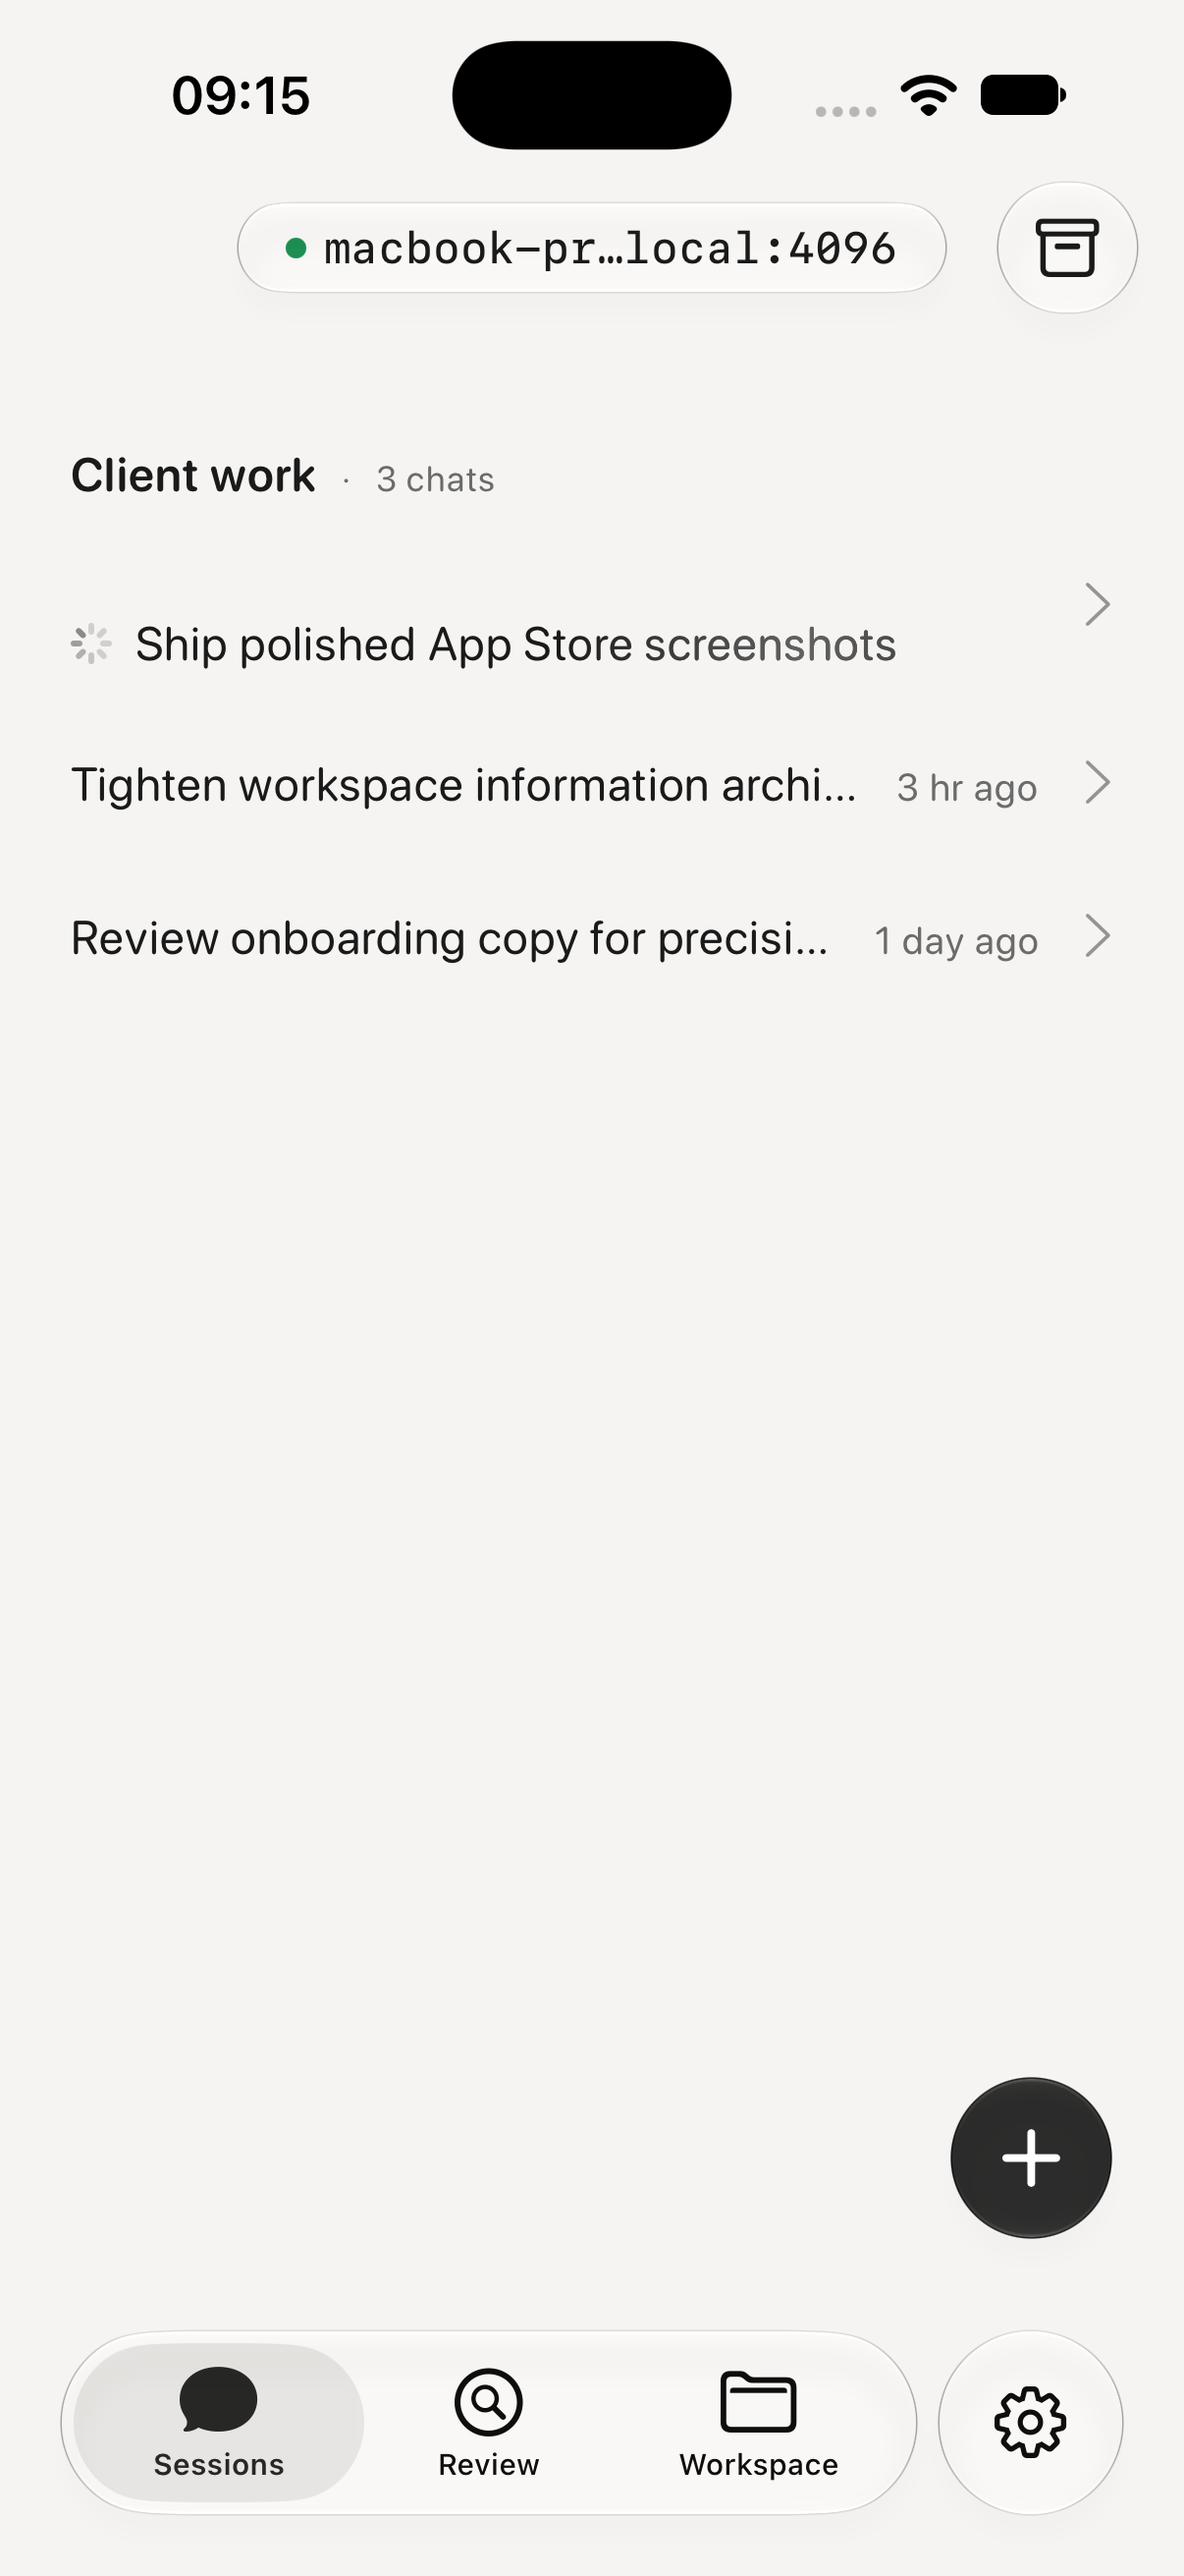
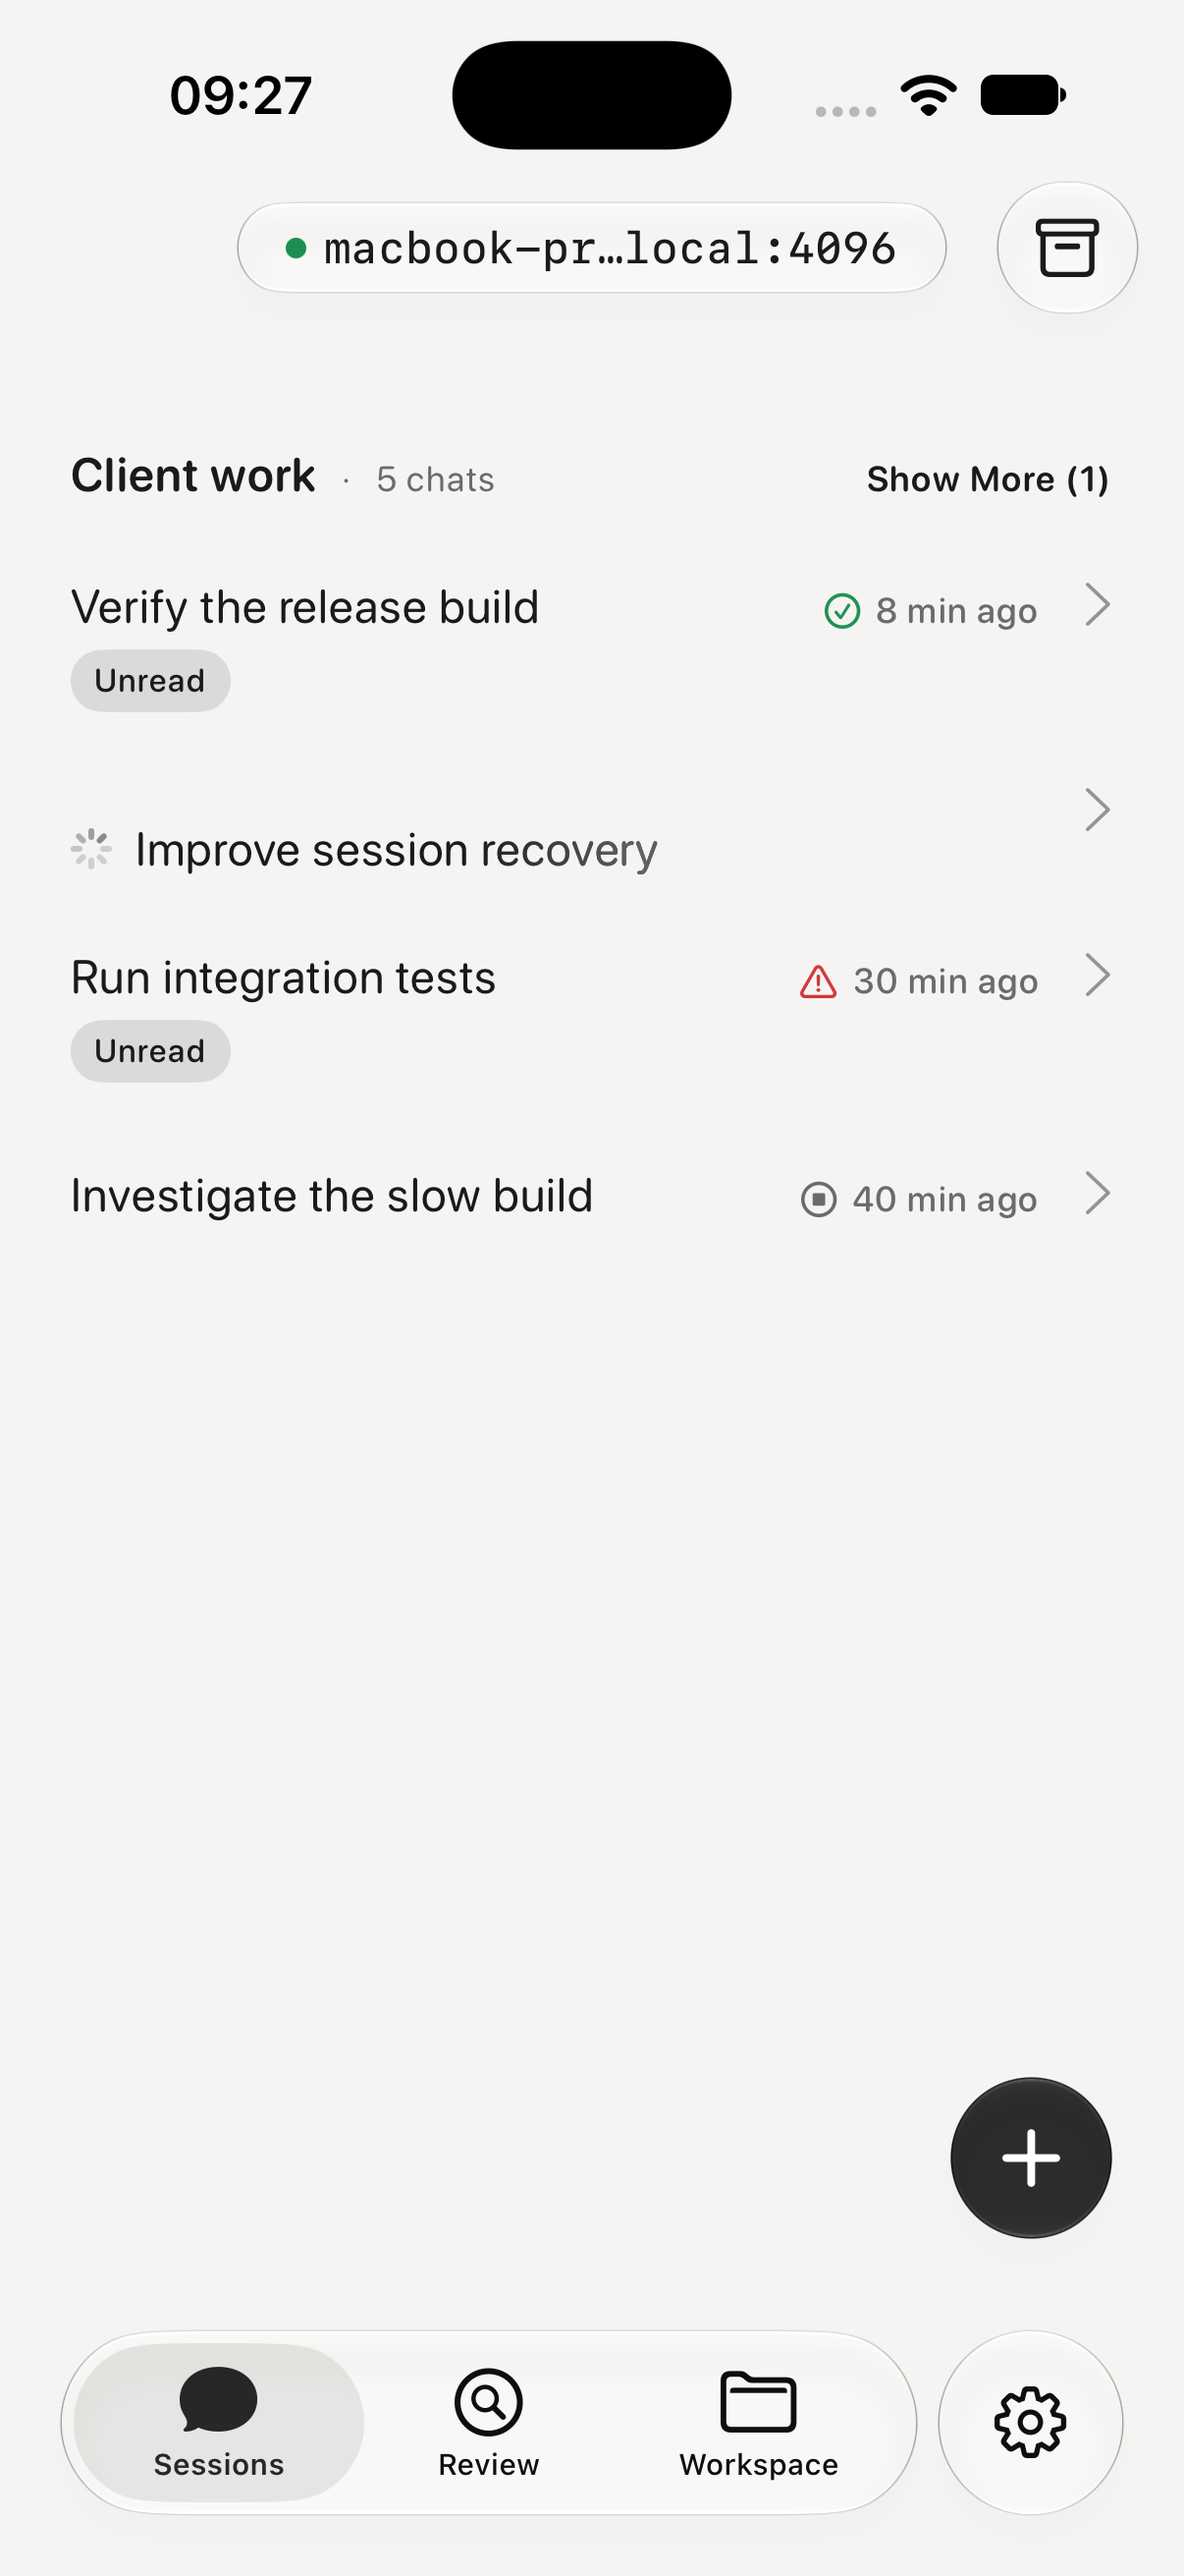
Bound inline status metadata and give unread badges their own line
Terminal statuses carry a relative time ("Succeeded · 8m ago"), which as
trailing inline metadata wrapped under pressure and wrecked the single-
line row. ExecutionStatusView gains a compact form — colored icon plus
abbreviated time (or the label for waiting states) — that never wraps
and keeps the full phrase for accessibility.

The unread badge moves to a second line instead of competing for trailing
width: unread rows stand taller than read rows, which is the extra
visibility they deserve.

Boards now validate the state-rich fixture (SCREENSHOT_EXECUTION_OUTCOMES
SCREENSHOT_UNREAD_RESULTS) — plain captures only ever rendered date rows
and hid exactly the states that broke; the validation procedure is
recorded in .interface-design/system.md.

diff --git a/OpenLens/Views/SessionsListView.swift b/OpenLens/Views/SessionsListView.swift
@@ -439,31 +439,39 @@ struct SessionsListView: View {
         let showsListExecutionOutcomes = connection.serverCapabilities?.protocolVersion == .v2
             || ScreenshotFixtures.showsExecutionOutcomes
 
+        let showsUnreadBadge = !isBusy && session.hasUnreadResult && showsListExecutionOutcomes
+
         return HStack(alignment: .firstTextBaseline, spacing: 12) {
-            SessionWorkingTitle(
-                title: session.title.isEmpty ? AppText.titleUntitled : session.title,
-                isWorking: isBusy
-            )
-            .frame(maxWidth: .infinity, alignment: .leading)
+            VStack(alignment: .leading, spacing: 5) {
+                HStack(alignment: .firstTextBaseline, spacing: 12) {
+                    SessionWorkingTitle(
+                        title: session.title.isEmpty ? AppText.titleUntitled : session.title,
+                        isWorking: isBusy
+                    )
+                    .frame(maxWidth: .infinity, alignment: .leading)
 
-            if !isBusy, showsListExecutionOutcomes,
-                      let outcome = session.executionOutcomeVisibleOnSessionList() {
-                ExecutionStatusView(state: outcome, idleTime: session.time.idle)
-            } else if !isBusy, !showsListExecutionOutcomes {
-                Text(formattedDate(session.updatedAt))
-                    .font(.system(size: 13, design: .rounded))
-                    .foregroundStyle(Color.appSecondary)
-            }
+                    if !isBusy, showsListExecutionOutcomes,
+                              let outcome = session.executionOutcomeVisibleOnSessionList() {
+                        ExecutionStatusView(state: outcome, idleTime: session.time.idle, isCompact: true)
+                    } else if !isBusy, !showsListExecutionOutcomes {
+                        Text(formattedDate(session.updatedAt))
+                            .font(.system(size: 13, design: .rounded))
+                            .foregroundStyle(Color.appSecondary)
+                    }
+                }
 
-            if !isBusy, session.hasUnreadResult, showsListExecutionOutcomes {
-                Text(AppText.unreadResult)
-                    .font(.system(size: 11, weight: .medium, design: .rounded))
-                    .foregroundStyle(Color.appAccent)
-                    .padding(.horizontal, 8)
-                    .padding(.vertical, 4)
-                    .background(Color.appAccent.opacity(0.12), in: Capsule())
-                    .accessibilityLabel(AppText.unreadResultAccessibility)
-                    .accessibilityIdentifier("session.unreadResult.\(session.id)")
+                // Unread results earn their own line: the badge gets breathing
+                // room and the row itself stands taller than read rows.
+                if showsUnreadBadge {
+                    Text(AppText.unreadResult)
+                        .font(.system(size: 11, weight: .medium, design: .rounded))
+                        .foregroundStyle(Color.appAccent)
+                        .padding(.horizontal, 8)
+                        .padding(.vertical, 4)
+                        .background(Color.appAccent.opacity(0.12), in: Capsule())
+                        .accessibilityLabel(AppText.unreadResultAccessibility)
+                        .accessibilityIdentifier("session.unreadResult.\(session.id)")
+                }
             }
 
             if !isSidebar {

diff --git a/OpenLens/Views/Components/ExecutionStatusView.swift b/OpenLens/Views/Components/ExecutionStatusView.swift
@@ -1,9 +1,12 @@
 import SwiftUI
 
 /// The current execution state, with the server's idle time for terminal results.
+/// `isCompact` renders a bounded icon + time form for dense rows: the label is
+/// dropped visually but kept for accessibility, and the view never wraps.
 struct ExecutionStatusView: View {
     let state: OCExecutionState
     let idleTime: Double?
+    var isCompact = false
 
     private var color: Color {
         switch state {
@@ -15,17 +18,51 @@ struct ExecutionStatusView: View {
     }
 
     var body: some View {
+        if isCompact {
+            compactBody
+        } else {
+            fullBody
+        }
+    }
+
+    private var compactBody: some View {
+        HStack(spacing: 4) {
+            Image(systemName: state.icon)
+                .foregroundStyle(color)
+            Text(relativeIdleText ?? state.label)
+        }
+        .font(.system(size: 12, weight: .medium, design: .rounded))
+        .foregroundStyle(Color.appSecondary)
+        .lineLimit(1)
+        .fixedSize(horizontal: true, vertical: false)
+        .accessibilityElement(children: .ignore)
+        .accessibilityLabel(accessibilityText)
+    }
+
+    private var fullBody: some View {
         HStack(spacing: 5) {
             Label(state.label, systemImage: state.icon)
                 .foregroundStyle(color)
-            if state == .succeeded || state == .failed || state == .interrupted,
-               let idleTime {
+            if let relativeIdleText {
                 Text("·")
-                Text(Date(timeIntervalSince1970: idleTime / 1000), format: .relative(presentation: .named, unitsStyle: .abbreviated))
+                Text(relativeIdleText)
             }
         }
         .font(.system(size: 12, weight: .medium, design: .rounded))
         .foregroundStyle(Color.appSecondary)
         .accessibilityElement(children: .combine)
+        .accessibilityLabel(accessibilityText)
+    }
+
+    /// Terminal results carry the server's idle time; other states do not.
+    private var relativeIdleText: String? {
+        guard state == .succeeded || state == .failed || state == .interrupted,
+              let idleTime else { return nil }
+        return Date(timeIntervalSince1970: idleTime / 1000)
+            .formatted(.relative(presentation: .named, unitsStyle: .abbreviated))
+    }
+
+    private var accessibilityText: String {
+        relativeIdleText.map { "\(state.label), \($0)" } ?? state.label
     }
 }

diff --git a/.interface-design/system.md b/.interface-design/system.md
@@ -58,6 +58,19 @@ content — group headers use weight, not size, to separate from rows.
 - Fixture-mode captures: `SIMCTL_CHILD_OPENLENS_SCREENSHOT_MODE=1
   SIMCTL_CHILD_OPENLENS_SCREENSHOT_TAB=<chat|review|workspace|settings>
   xcrun simctl launch <UDID> com.nicolabeghin.OpenLens`, then
-  `xcrun simctl io <UDID> screenshot`. Compose labeled before/after boards with
+  `xcrun simctl io <UDID> screenshot`. Settle 15s after a fresh install — 7s
+  once photographed a blank list. Compose labeled before/after boards with
   `.scratch/ui-review/` tooling; expect deltas in the 0.1–6% range for polish
   passes (larger = recheck capture methodology first).
+- Row layouts MUST be validated against the states they can render, not the
+  default fixture: plain captures show date-only rows. Add
+  `SCREENSHOT_EXECUTION_OUTCOMES SCREENSHOT_UNREAD_RESULTS` as launch
+  arguments (bare, no leading dash — the fixture matches exact strings) to
+  render succeeded/failed/interrupted statuses, a busy shimmer row, and
+  unread badges. Verify captures quantitatively (content-band analysis ≈35
+  bands date-variant, ≈46 state-variant) before composing boards.
+- States not fixture-renderable in the list (waiting-permission/form rows,
+  v1 date rows, iPad sidebar selection) are covered by keeping status
+  metadata bounded: `ExecutionStatusView(isCompact: true)` never wraps
+  (`lineLimit(1)` + `fixedSize`) and yields nothing to the title.
+
